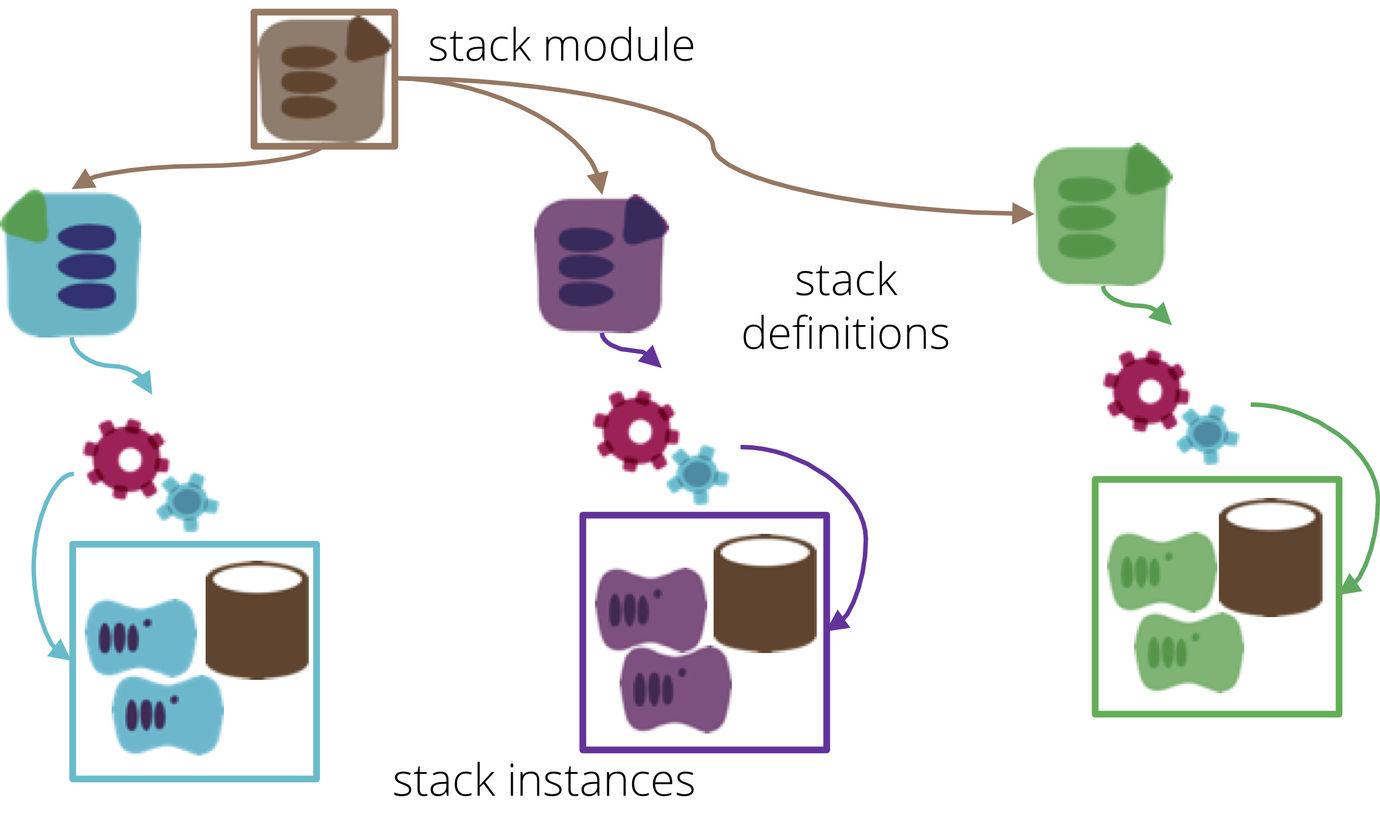
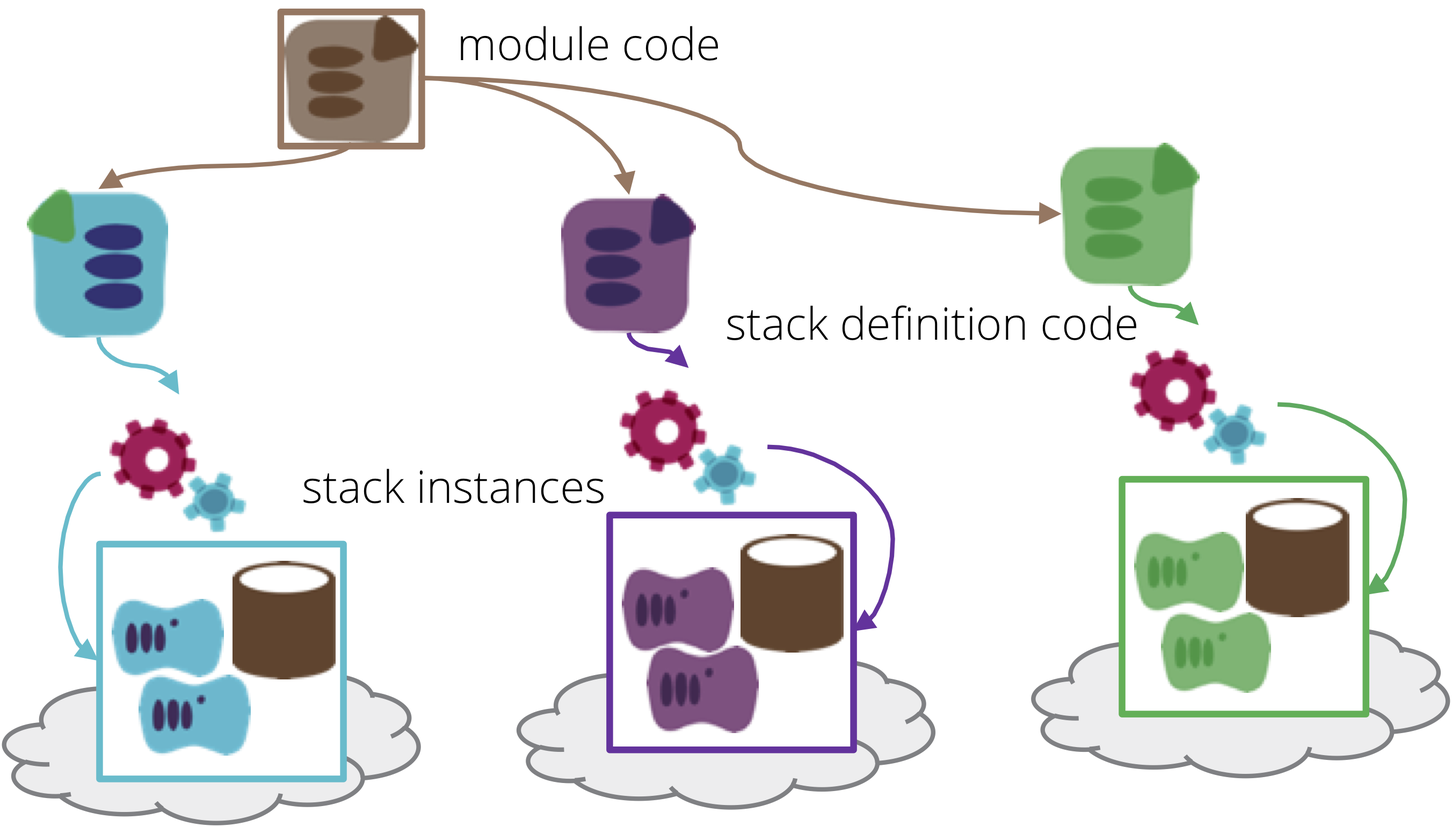
Put the main pattern list page into a table, to make it more clear, maybe. Started revising text and images to remove the use of the term definition

diff --git a/patterns.html b/patterns.html
@@ -9,6 +9,7 @@ layout: default
 
 <div class="home">
 
+<table>
 {% assign pattern_categories = site.patterns | sort: 'order' | group_by: 'category' %}
 {% for category in pattern_categories %}
 
@@ -16,40 +17,52 @@ layout: default
 
   {% for item in pattern_items %}
     {% if item.section == true %}
+  <tr>
+    <td colspan="2">
       <h2>
+        <a href="{{ item.url }}">{{ item.title }}</a>
           {% if item.status == "review" %}
             &#x1F50D
           {% elsif item.status == "todo" %}
             &#x1F477
           {% endif %}
-        <a href="{{ item.url }}">{{ item.title }}</a>
       </h2>
+    </td>
+  </tr>
+  <tr>
+    <td colspan="2">
       <p>
         {{ item.excerpt | strip_html }}
         (<a href="{{ item.url }}">Read more</a>)
       </p>
+  </td>
+  </tr>
     {% endif %}
   {% endfor %}
 
-  <ul>
   {% for item in pattern_items %}
     {% if item.section != true %}
-      <li>
-        <strong>
-          {% if item.status == "review" %}
-            &#x1F50D
-          {% elsif item.status == "todo" %}
-            &#x1F477
-          {% endif %}
-          <a href="{{ item.url }}">{{ item.title }}</a>:
-        </strong>
-        {{ item. excerpt | strip_html }}
-      </li>
+  <tr>
+    <td>
+      <strong>
+        <a href="{{ item.url }}">{{ item.title }}</a>:
+      </strong>
+      {% if item.status == "review" %}
+        &#x1F50D
+      {% elsif item.status == "todo" %}
+        &#x1F477
+      {% endif %}
+    </td>
+    <td>
+      {{ item. excerpt | strip_html }}
+    </td>
+  </tr>
     {% endif %}
   {% endfor %}
-  </ul>
 
+  </tr>
 {% endfor %}
+</table>
 </div>
 
 </div>

diff --git a/_patterns/core-stack/index.md b/_patterns/core-stack/index.md
@@ -13,16 +13,25 @@ An *Infrastructure Stack* is a collection of infrastructure elements that are de
 
 Infrastructure on a dynamic, IaaS platform is provisioned and managed as discrete units by tools such as [Hashicorp Terraform](https://www.terraform.io/), [AWS CloudFormation](https://aws.amazon.com/cloudformation/), [Azure Resource Manager Templates](https://docs.microsoft.com/en-us/azure/azure-resource-manager/resource-group-overview), [Google Cloud Deployment Manager Templates](https://cloud.google.com/deployment-manager/) and [OpenStack Heat](https://wiki.openstack.org/wiki/Heat). These tools (and others) all define a collection of infrastructure in a declarative way, and there are design patterns (and anti-patterns) that apply regardless of which one you work with. However, these tools and their documentation don't use a common term to describe the collection of infrastructure they work with, so for the purposes of cross-tool design patterns, we will use the term "stack".
 
-![An infrastructure stack is a collection of infrastructure elements managed as a unit](images/infrastructure-stack.png)
+
+<figure>
+  <img src="images/infrastructure-stack.png" alt="An infrastructure stack is a collection of infrastructure elements managed as a unit"/>
+  <figcaption>An infrastructure stack is a collection of infrastructure elements managed as a unit.</figcaption>
+</figure>
 
 
-## Stack definition
+## Stack definition code
 
-A stack definition is the code that declares what a stack should be. It is a Terraform project, CloudFormation template, and so on. A stack definition may use shared infrastructure code - for example, [CloudFormation nested stacks](https://aws.amazon.com/blogs/devops/use-nested-stacks-to-create-reusable-templates-and-support-role-specialization/) or [Terraform modules](https://www.terraform.io/docs/modules/index.html).
+A stack definition is the source code that declares what a stack should be. It is a Terraform project, CloudFormation template, and so on. A stack definition may use shared infrastructure code - for example, [CloudFormation nested stacks](https://aws.amazon.com/blogs/devops/use-nested-stacks-to-create-reusable-templates-and-support-role-specialization/) or [Terraform modules](https://www.terraform.io/docs/modules/index.html).
 
-![A stack definition is code used to provision stack instances](images/stack-definition.png)
 
-Below is an example stack definition, in this case a Terraform project:
+<figure>
+  <img src="images/stack-definition.png" alt="A stack definition is code used to provision stack instances"/>
+  <figcaption>A stack definition is code used to provision stack instances.</figcaption>
+</figure>
+
+
+Below is an example stack definition code project, in this case Terraform:
 
 ~~~ console
 stack-definition/
@@ -42,28 +51,33 @@ stack-definition/
 
 ## Stack instance
 
-A stack definition can be used to provision one or more stack instances. When the relevant stack management tool is run, it reads the stack definition and then interacts with the API of an infrastructure platform to either provision new infrastructure elements, or make changes to existing infrastructure elements. After running, the infrastructure elements should be consistent with the definition.
+The code for a stack definition can be used to provision one or more stack instances. When the relevant stack management tool is run, it reads the code and then interacts with the API of an infrastructure platform to either provision new infrastructure elements, or make changes to existing infrastructure elements. After running, the infrastructure elements should be consistent with the definition code.
 
-If changes are made to the definition and the tool is run again, then the existing infrastructure elements are changed accordingly. If the tool is run another time without any changes to the definition, then the existing infrastructure elements will be left as is. The set of infrastructure elements managed together according to the definition is the stack instance.
+If changes are made to the code and the tool is run again, then the existing infrastructure elements are changed accordingly. If the tool is run another time without any changes to the code, then the existing infrastructure elements will be left as is. The set of infrastructure elements managed together according to the code is the stack instance.
 
-The [Singleton Stack antipattern](singleton-stack.html) is a naive implementation, where each stack instance is defined and managed by a separate stack definition. This is useful for very simple use cases, particularly when learning something, but it isn't a suitable approach for important infrastructure.
+The [Singleton Stack antipattern](singleton-stack.html) is a naive implementation, where each stack instance is defined and managed by its own separate stack definition code. This is useful for very simple use cases, particularly when learning something, but it isn't a suitable approach for important infrastructure.
 
-In most cases, a single stack definition will be used to provision and manage multiple stack instances. There are two main patterns for this, which address different use cases.
+In most cases, a single stack definition code project will be used to provision and manage multiple stack instances. There are two main patterns for this, which address different use cases.
 
-![Multiple stack instances can be provisioned from a single stack definition](images/stack-instances.png)
+
+
+<figure>
+  <img src="images/stack-instances.png" alt="Multiple stack instances can be provisioned from a single stack definition code project"/>
+  <figcaption>Multiple stack instances can be provisioned from a single stack definition code project.</figcaption>
+</figure>
 
 
 ## Multiple stack instances
 
-The first pattern for reusing a stack definition is a [template stack](template-stack.html), which aims to ensure consistency between instance created from a given stack definition. The common uses for this are: to provide consistent environments for testing software and other system elements; to test changes to the infrastructure code itself; or to replicate system elements for scaling, geographic available, or resilience. There is very little variation between instances of the stack, since the intention is for them to be replicas of the same system elements.
+The first pattern for reusing a stack definition's code is a [template stack](template-stack.html), which aims to ensure consistency between instance. The common uses for this are: to provide consistent environments for testing software and other system elements; to test changes to the infrastructure code itself; or to replicate system elements for scaling, geographic available, or resilience. There is very little variation between instances of the stack, since the intention is for them to be replicas of the same system elements.
 
-The second pattern for reusing a stack definition is a [library stack](library-stack.html), where a stack definition is used to create multiple instances with similar infrastructure elements, which used for different purposes. For example, an infrastructure stack that defines a database cluster may be used to create one stack instance for a product service database, a second instance for a customer service database, and a third instance for a transaction service database. Unlike template stacks, two instances of a given library stack may be very different, since they may serve different purposes.
+The second pattern for reusing a stack definition's code is a [library stack](library-stack.html), where stack definition code is used to create multiple instances with similar infrastructure elements, but which used for different purposes. For example, code that defines a database cluster may be used to create one stack instance for a product service database, a second instance for a customer service database, and a third instance for a transaction service database. Unlike template stacks, two instances of a given library stack may be very different, since they may serve different purposes.
 
-The typical way to create multiple stack instances from a single stack definition, whether it's a template or library stack, is to provide options to the stack management tool to give each stack instance a unique identity.
+The typical way to create multiple stack instances from a single stack definition code project, whether it's a template or library stack, is to provide options to the stack management tool to give each stack instance a unique identity.
 
 With CloudFormation, this is done by setting a different stack name for each instance. If you pass it a stack name that doesn't exist, the tool creates a new instance. If the stack name does exist, then the tool re-applies the definition to the existing stack elements.
 
-With Terraform, each stack instance has its own state file, which contains information used to map specific infrastructure elements provisioned in the platform to the stack definition (the Terraform project). You pass arguments to the terraform command to tell it which statefile to use, so that it knows which stack instance to create or update.
+With Terraform, each stack instance has its own state file, which contains information used to map specific infrastructure elements provisioned in the platform to the stack definition code. You pass arguments to the terraform command to tell it which statefile to use, so that it knows which stack instance to create or update.
 
 
 > ## A note on state
@@ -77,6 +91,6 @@ With Terraform, each stack instance has its own state file, which contains infor
 > Arguably, the explicit state management of Terraform gives you more control and transparency. When your CloudFormation stack gets wedged, you can't examine the state data structures to see what's happening. And you (and third parties) have the option of writing tools that use the state data for various purposes. But it does require you to put a bit more work into keeping track of statefiles and making sure they're available when running the stack management tool. Clearly, it's nicer if the data structures are maintained transparently for you, and never become corrupted or inconsistent.
 
 
-Parameterizing stacks makes stack definition code more reusable, whether for template stacks or library stacks. We have plans to publish patterns for configuring stack instances.
+Parameterizing stacks makes stack definition code more reusable, whether for template stacks or library stacks. There are a number of [patterns for configuring stacks](/patterns/stack-configuration/).
 
 As the size and complexity of infrastructure grows, keeping it all in a single stack becomes messy and difficult to work with. There are various patterns that can be applied to organize infrastructure stacks to make them more manageable, which will be published in the future.

diff --git a/_patterns/core-stack/library-stack.md b/_patterns/core-stack/library-stack.md
@@ -13,26 +13,29 @@ A Library Stack is an [infrastructure stack](/patterns/core-stack/) that is desi
 Often, multiple infrastructure stacks are needed which are largely similar, but require customisation. For example, an organisation may run multiple applications which each require a database and a pool of servers behind a firewall. However, the servers will be configured differently, perhaps using different base images, and may run different code to install and configure the applications on each.
 
 
-![A Library Stack is an infrastructure stack that is designed to be used as a base to create more specialised stacks](images/library-stack.png)
+<figure>
+  <img src="images/library-stack.png" alt="A Library Stack is an infrastructure stack that is designed to be used as a base to create more specialised stacks"/>
+  <figcaption>A Library Stack is an infrastructure stack that is designed to be used as a base to create more specialised stacks.</figcaption>
+</figure>
 
 
-In this situation, a base stack definition could include most of the common infrastructure code, such as networking, database provisioning, and basic server provisioning. For each instance, additional code could be added to customize the server provisioning to deploy and configure the relevant application.
+In this situation, the base stack definition project could include most of the common infrastructure code, such as networking, database provisioning, and basic server provisioning. For each instance, additional code could be added to customize the server provisioning to deploy and configure the relevant application.
 
 
 ## Comparison with the template stack pattern
 
-A library stack is similar to a [template stack](template-stack.html), in that a single definition is used to create multiple stack instances. The implementation may also be very similar. For example, a template stack may be customized by passing a handful of parameters. Our example of the application service stacks could be implemented by passing the name of a different server role to each instance, which is then used by provisioning code to apply a completely different set of server-level configuration.
+A library stack is similar to a [template stack](template-stack.html), in that a single definition project is used to create multiple stack instances. The implementation may also be very similar. For example, a template stack may be customized by passing a handful of parameters. Our example of the application service stacks could be implemented by passing the name of a different server role to each instance, which is then used by provisioning code to apply a completely different set of server-level configuration.
 
 The difference between a library stack and a template stack is the intent. A template stack is used to create multiple copies of essentially the same stack instance. A library stack is used to create stack instances which have different purposes. Each instance of a template stack would be expected to run the same application, whereas instances of a library stack may run different applications.
 
-The main reason for defining these as two separate patterns is to clearly emphasize the intention of a given stack definition. If the intention is to replicate infrastructure, e.g. to manage multiple environments to test and run an application, then describing it as a template stack should make it easier to keep the design clean and focused.
+The main reason for defining these as two separate patterns is to clearly emphasize the intention of a given stack definition project. If the intention is to replicate infrastructure, e.g. to manage multiple environments to test and run an application, then describing it as a template stack should make it easier to keep the design clean and focused.
 
 Because of this difference, it's common for to implement a library stack in a way that enables significant variations between instances, as opposed to a template stack which aims to minimize differences between instances.
 
 
 ## Implementation
 
-As mentioned, a simple method for customizing instances of a library stack is to pass variables when applying the stack definition, which the stack definition code uses to customize the infrastructure. However, it may be useful to customize instances further. In some cases, this could be done by taking a copy of the template stack definition, and adding additional infrastructure code (e.g. Terraform or CloudFormation files). When the stack management tool is run, it applies all of the code together - the code from the library stack as well as the added code which customizes the instance.
+As mentioned, a simple method for customizing instances of a library stack is to pass variables when applying the stack definition, which the stack code uses to customize the infrastructure. However, it may be useful to customize instances further. In some cases, this could be done by taking a copy of the template stack definition code, and adding additional infrastructure code (e.g. Terraform or CloudFormation files). When the stack management tool is run, it applies all of the code together - the code from the library stack as well as the added code which customizes the instance.
 
 
 The following is an example Terraform project structure for a library stack. It defines a load balancer, networking, and database:
@@ -67,16 +70,16 @@ search-service-stack-full/
    └── test/
 ~~~
 
-Generally speaking, few (if any) infrastructure stack tools support this structure naturally. It is generally implemented by teams using stack orchestration tools (which will be described in future content in this pattern catalogue).
+Generally speaking, few (if any) infrastructure stack tools support this structure directly. It is generally implemented by teams using [stack orchestration tools](/patterns/stack-orchestration-tools/).
 
-Another way to implement a library stack is through stack modules. The main code is defined in a module, which is imported into a stack project which includes code to add the customizations. This is very similar to the [wrapper stack] pattern, which will be described in a future entry to these patterns.
+Another way to implement a library stack is through [stack modules](/patterns/stack-structures/stack-module.html). The main code is defined in a module, which is imported into a stack project which includes code to add the customizations.
 
 
 ## How stack modules relate to library stacks
 
-A [stack module] is infrastructure code that is packaged to be re-used by multiple stack definitions. For example, a module may contain code that defines a block storage device (a mountable hard drive, such as an EBS volume on AWS). A stack definition can reference this module, probably passing some parameters, to provision an EBS volume.
+A [stack module](/patterns/stack-structures/stack-module.html) is infrastructure code that is packaged to be re-used by multiple stack definition projects. For example, a module may contain code that defines a block storage device (a mountable hard drive, such as an EBS volume on AWS). A stack definition project's code can reference this module, probably passing some parameters, to provision an EBS volume.
 
 Stack modules are mechanisms provided by specific stack management tools. Terraform has [modules](https://www.terraform.io/docs/modules/index.html), Cloudformation has [nested stacks](https://aws.amazon.com/blogs/devops/use-nested-stacks-to-create-reusable-templates-and-support-role-specialization/), etc.
 
-In practice, there is not much difference between a stack module and a library stack. The main difference is that a library stack is intended to represent a mostly complete stack, whereas a stack module is usually a smaller component designed to be included in a stack. A stack definition might include multiple modules, maybe even the same one. For example, a stack that creates a set of servers to run an application might use a "disk volume module" several times, to create different disks for different servers in the stack.
+In practice, there is not much difference between a stack module and a library stack. The main difference is that a library stack is intended to represent a mostly complete stack, whereas a stack module is usually a smaller component designed to be included in a stack. A stack definition project might include multiple modules, maybe even the same one used multiple times. For example, a stack that creates a set of servers to run an application might use a "disk volume module" several times, to create different disks for different servers in the stack.
 

diff --git a/_patterns/core-stack/template-stack.md b/_patterns/core-stack/template-stack.md
@@ -8,25 +8,31 @@ published: true
 status: review
 ---
 
-A Template Stack is an [infrastructure stack](/patterns/core-stack/) that is designed to be consistently replicated.
+A Template Stack is an [infrastructure stack](/patterns/core-stack/) that is designed to be replicated consistently. The code for the stack definition can be used to create multiple instances, with minimum variation between them.
 
 A great benefit of defining infrastructure as code is that it's easy to replicate infrastructure. This has a variety of uses, including:
 
-- *Consistency* - use the same stack definition to create each environment used for testing new releases of software, as well as the production environment, to ensure accurate testing,
-- *Testability* - when making a change to infrastructure, provision and test an instance of it before applying the change to production environments,
+- *Consistency* - use the same stack definition code to create each environment used for testing new releases of software, as well as the production environment, to ensure accurate testing,
+- *Testability* - when making a change to infrastructure code, provision and test an instance of it before applying the change to production environments,
 - *High availability* - when a system fails, provision a new instance on demand to replace it,
 - *Scalability* - provision additional instances of infrastructure in different locations,
 - *Multiple customers* - provision an additional instance of an essentially identical service for each customer,
 
-In all of these cases, it is useful to define an infrastructure stack so that it can be used to manage multiple, highly consistent instances. A stack defined this way is a Template Stack.
+In all of these cases, it is useful to write infrastructure stack code so that it can be used to manage multiple, highly consistent instances. A stack defined this way is a Template Stack.
 
-![A Template Stack is an infrastructure stack that is designed to be consistently replicated](images/template-stack.png)
 
-This pattern is similar to the [library stack pattern](/patterns/core-stack/library-stack.html), in which a single stack definition is used to create multiple instances. However, instances of a library stack are normally extended and customized for different purposes, while instances of a template stack are intended to be nearly identical.
+<figure>
+  <img src="images/template-stack.png" alt="A Template Stack is an infrastructure stack code that is designed to be replicated consistently"/>
+  <figcaption>A Template Stack is an infrastructure stack code that is designed to be replicated consistently.</figcaption>
+</figure>
+
+
+
+This pattern is similar to the [library stack pattern](/patterns/core-stack/library-stack.html), in which a single stack definition's code is also used to create multiple instances. However, instances of a library stack are normally extended and customized for different purposes, while instances of a template stack are intended to be nearly identical.
 
 So a defining characteristic of the template stack pattern is that there is very little variation between each instance of the stack. Therefore, implementations of this pattern should aim to minimize the scope for variance.
 
-Variance between stack instances is enabled by the use of [stack parameters]. The stack definition specifies a number of parameters which can be set. For each stack instance, values are passed for these parameters, which the definition uses to customize the instance.
+Variance between stack instances is enabled by the use of [stack parameters](/patterns/stack-configuration/). The stack definition code specifies a number of parameters which can be set. For each stack instance, values are passed for these parameters, which the code uses to customize the instance.
 
 Typically, parameters are used to define names and IDs to distinguish the elements of each instance from one another. This is particularly useful to avoid clashes between instances of infrastructure. For example, it may not be possible to create more than one subnet called `myAppSubnet`, so it would be useful to have a parameter named `INSTANCE_NAME`, and use this to name the subnet `myAppSubnet-${INSTANCE_NAME}`.
 
@@ -41,12 +47,12 @@ It is a red flag when a parameter is used as a conditional that decides whether 
 
 Some teams use the [singleton stack anti-pattern](singleton-stack.html) to manage multiple instances of a stack. This involves creating a new copy of the stack definition code for each new environment or other instance. While this is a straightforward approach to implement, it makes it difficult to keep each instance consistent.
 
-A variation of the singleton stack is the [wrapper stack pattern]. Like the singleton stack, there is a separate copy of the stack definition code for each stack instance. However, the bulk of the infrastructure code is contained in a [stack module], a library which is imported into the stack definition. This way the code is declared once - in the module - and re-used across each stack instance. Each stack definition is effectively used as a mechanism to define parameter values for one stack instance. 
+A variation of the singleton stack is the [wrapper stack pattern]. Like the singleton stack, there is a separate copy of the stack definition code for each stack instance. However, the bulk of the infrastructure code is contained in a [stack module](/patterns/stack-structures/stack-module.html), a library which is imported into the stack definition project. This way the code is declared once - in the module - and re-used across each stack instance. Each stack definition project is effectively used as a mechanism to define parameter values for one stack instance.
 
 
-## Testing stack definitions
+## Testing stack definition code
 
-When making changes to an infrastructure stack definition, being able to provision a test instance enables you to test your changes before applying them to your production stack instance. As an individual engineer making changes to infrastructure code, you can provision and test your changes on your own sandbox instance before committing changes. As a team, you can use [Continuous Integration](https://martinfowler.com/articles/continuousIntegration.html) and [Continuous Delivery](https://martinfowler.com/bliki/ContinuousDelivery.html) to facilitate a consistent and reliable process for testing and delivering changes to your infrastructure. There are a number of considerations for [testing infrastructure changes] effectively, which will be defined in future patterns.
+When making changes to an infrastructure stack definition's code, being able to provision a test instance enables you to test your changes before applying them to your production stack instance. As an individual engineer making changes to infrastructure code, you can provision and test your changes on your own sandbox instance before committing changes. As a team, you can use [Continuous Integration](https://martinfowler.com/articles/continuousIntegration.html) and [Continuous Delivery](https://martinfowler.com/bliki/ContinuousDelivery.html) to facilitate a consistent and reliable process for testing and delivering changes to your infrastructure. There are a number of considerations for [testing infrastructure changes] effectively, which will be defined in future patterns.
 
 
 ## Delivering changes to infrastructure stacks

diff --git a/_patterns/stack-configuration/index.md b/_patterns/stack-configuration/index.md
@@ -19,7 +19,21 @@ Defining an [infrastructure stack](/patterns/core-stack/) as code enables the cr
 
 As described in the [core patterns](/patterns/core-stack), there are two main patterns used to create multiple stack instances from a single stack definition. One is a [template stack](/patterns/core-stack/template-stack.html), where all of the instances created from a stack definition are intended to be highly consistent. There should be very little variation between them. The common case of this is when creating stack instances to test software - the same stack definition is used to create instances for development, test, and production, so that the software is tested in an environment that is consistent with production.
 
-The other pattern is the [library stack](/patterns/core-stack/library-stack.html), where the stack definition provides the core configuration for the stack's infrastructure, but each instance is customized or extended to serve different purposes. An example of this is defining a stack that creates a database cluster, but provisioning instances with different configurations for a product database, user database, and search database.
+
+<figure>
+  <img src="/patterns/core-stack/images/template-stack.png" alt="Template stack, all of the instances are intended to be highly consistent"/>
+  <figcaption>Template stack, all of the instances are intended to be highly consistent.</figcaption>
+</figure>
+
+
+The other pattern is the [library stack](/patterns/core-stack/library-stack.html), where the stack definition provides the core configuration for the stack's infrastructure, but each instance is customized or extended to serve a different purpose. An example of this is defining a stack that creates a database cluster, but provisioning instances with different configurations for a product database, user database, and search database.
+
+
+<figure>
+  <img src="/patterns/core-stack/images/library-stack.png" alt="Library stack, each instance is customized or extended to serve a different purpose"/>
+  <figcaption>Library stack, each instance is customized or extended to serve a different purpose.</figcaption>
+</figure>
+
 
 Because instances of a template stack tend to have little variation - in fact, it's desirable to keep variation to a minimum - configuration tends to be limited to a handful of simple parameters - strings, numbers, lists, key-value maps. So the configuration mechanism for these can be fairly simple, essentially a way to pass a set of variable names and values to the tool when provisioning or updating the stack instance.
 
@@ -28,13 +42,36 @@ Library stacks, on the other hand, often need deeper customization. This might i
 
 ## Stack configuration mechanisms
 
-In order to create instances of a parameterized stack, a mechanism is needed to provide parameter values. Some options include [Stack Parameter Files], [Pipeline-defined parameters], and [Parameter Registry]. Descriptions of these patterns are upcoming.
+In order to create instances of a parameterized stack, values need to be provided to the stack management tool (e.g. Terraform, CloudFormation, etc.). For example, consider a stack which defines a server cluster and its networking:
+
+
+~~~ console
+   ├── src/
+   │   ├── variables.tf
+   │   ├── cluster.tf
+   │   └── networking.tf
+   └── test/
+~~~
+
+
+The stack takes parameters that set an environment id string used to name and tag things, and minimum and maximum sizes for the cluster:
+
+
+~~~ hcl
+variable "environment_id" {}
+variable "cluster_minimum" { default = "1" }
+variable "cluster_maximum" { default = "1" }
+~~~
+
+
+
+
+a mechanism is needed to provide parameter values. Some options include [Stack Parameter Files](stack-parameter-files.html), [Pipeline-defined parameters](pipeline-defined-parameters.html), and [Parameter Registry](stack-parameter-registry.html).
 
 Another approach is to define the stack as a module, and then use a [Wrapper Stack](wrapper-stack.html) to define parameter values for each instance.
 
 
 ## Related topics
 
-When a system's infrastructure is divided across multiple stacks, configuration usually needs to be passed from one stack to another. The mechanisms for doing this are closely related to those for per-instance configuration, although there are additional things to consider. This is discussed under [stack integration](/patterns/stack-configuration/).
-
+When a system's infrastructure is divided across multiple stacks, configuration usually needs to be passed from one stack to another. The mechanisms for doing this are closely related to those for per-instance configuration, although there are additional things to consider. This is discussed under [stack integration](/patterns/stack-integration/).
 

diff --git a/_patterns/stack-configuration/stack-parameter-files.md b/_patterns/stack-configuration/stack-parameter-files.md
@@ -1,6 +1,6 @@
 ---
 layout: pattern
-title:  "Environment Parameter Files"
+title:  "Stack Parameter Files"
 date:   2019-01-01 16:20:00
 category: Stack Configuration Patterns
 order: 22
@@ -8,5 +8,7 @@ published: false
 status: todo
 ---
 
-Provide parameter values to instances of [parameterized stacks](parameterized-stack.adoc) by putting them into files, checked into version control. Usually the same project as the stack definition.
+A very
+
+Provide values to instances of [parameterized stacks](parameterized-stack.adoc) by putting them into files, checked into version control. Usually the same project as the stack definition.
 

diff --git a/_patterns/stack-configuration/wrapper-stack.md b/_patterns/stack-configuration/wrapper-stack.md
@@ -2,8 +2,8 @@
 layout: pattern
 title:  "Wrapper Stack Pattern"
 date:   2019-01-01 16:20:00
-category: Core Stack Patterns
-order: 5
+category: Stack Configuration Patterns
+order: 25
 published: true
 status: review
 ---

diff --git a/_patterns/stack-configuration/command-line-parameters.md b/_patterns/stack-configuration/command-line-parameters.md
@@ -1,0 +1,9 @@
+---
+layout: pattern
+title:  "Commandline Stack Parameters"
+date:   2019-01-01 16:20:00
+category: Stack Configuration Patterns
+order: 21
+published: false
+status: todo
+---

diff --git a/_patterns/stack-configuration/pipeline-defined-parameters.md b/_patterns/stack-configuration/pipeline-defined-parameters.md
@@ -1,0 +1,9 @@
+---
+layout: pattern
+title:  "Pipeline-Defined Parameters"
+date:   2019-01-01 16:20:00
+category: Stack Configuration Patterns
+order: 23
+published: false
+status: todo
+---

diff --git a/_patterns/stack-configuration/stack-parameter-registry.md b/_patterns/stack-configuration/stack-parameter-registry.md
@@ -1,0 +1,9 @@
+---
+layout: pattern
+title:  "Stack Parameter Registry"
+date:   2019-01-01 16:20:00
+category: Stack Configuration Patterns
+order: 24
+published: false
+status: todo
+---

diff --git a/_patterns/contributions.md b/_patterns/contributions.md
@@ -1,0 +1,2 @@
+
+Vijay Raghavan Aravamudhan gave helpful feedback. 2019/01/04+
